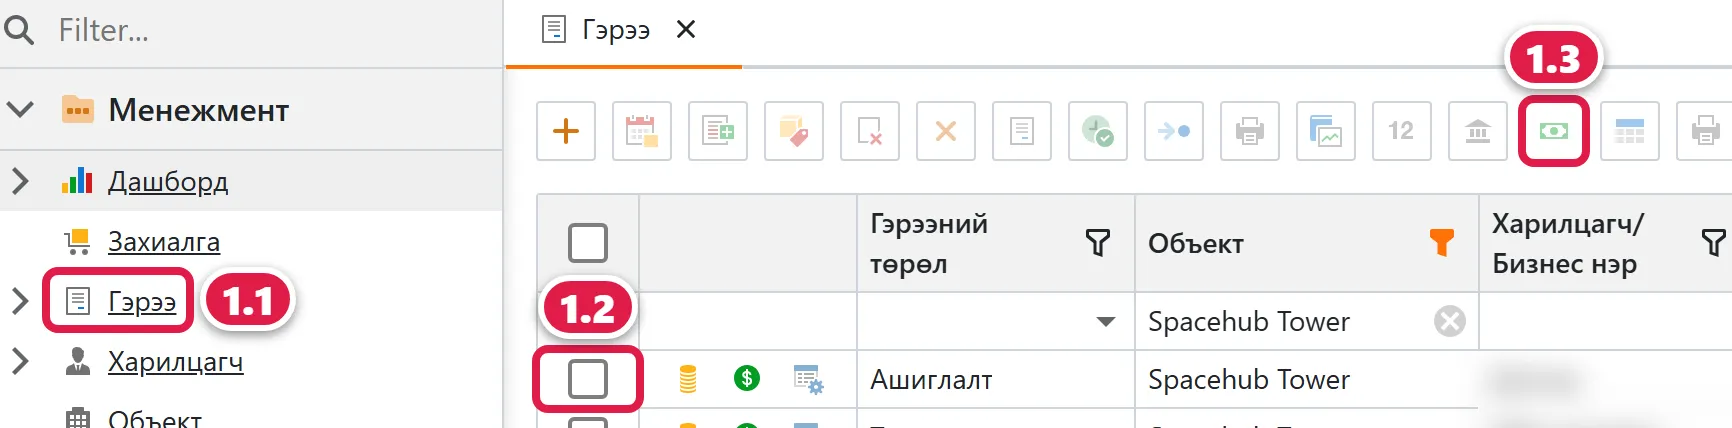
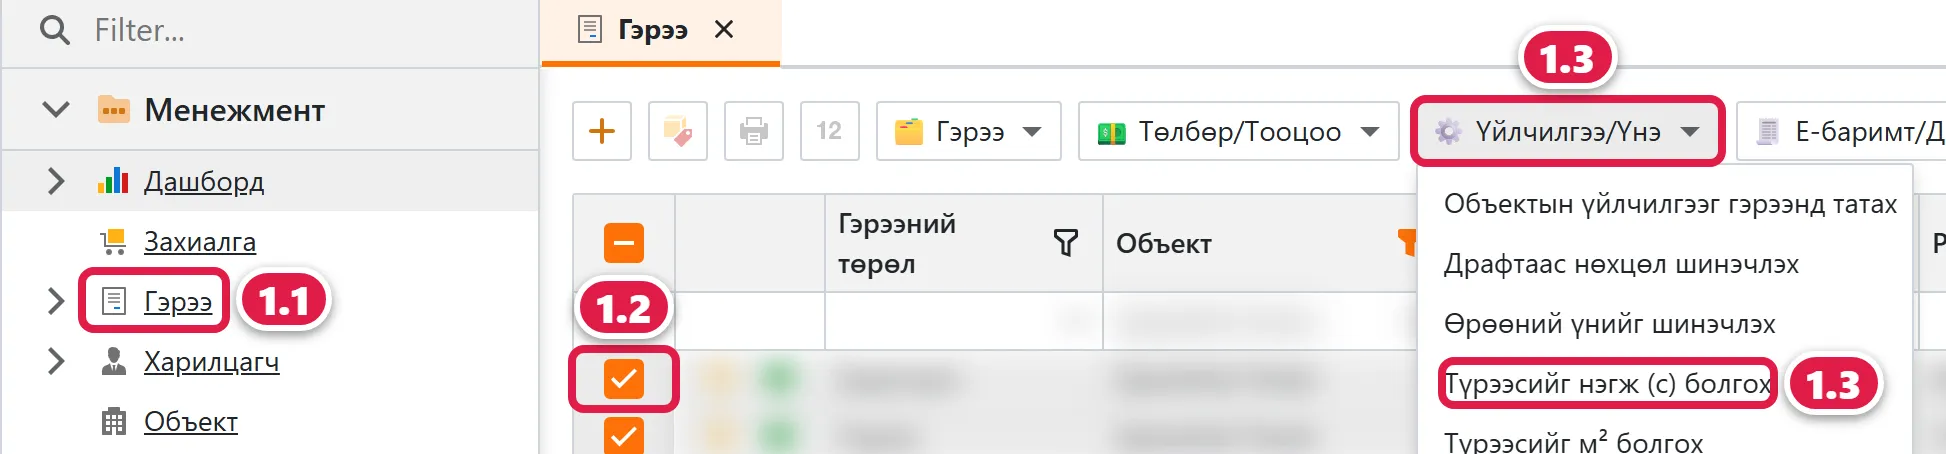
help: 10-31-ний товчны бүлэгтэй тулгав — «Сунгах» (🗂 Гэрээ), «Түрээсийг нэгж (с) болгох» (⚙ Үйлчилгээ/Үнэ) шинэ зурагтай; «Төлбөрийн төлөв шинэчлэх», «Төлөлтийг тооцоонд дахин хуваарилах» замыг 3 хуудсанд нэмэв

diff --git a/docs/owner/tureesiin-negj-m2.md b/docs/owner/tureesiin-negj-m2.md
@@ -3,8 +3,8 @@ sidebar_position: 4
 sidebar_label: Түрээсийг нэгжээр харуулах
 type: zaavar
 roles: [owner, menejer]
-updated: 2026-10-28
-verified_commit: 5fa824f
+updated: 2026-11-01
+verified_commit: 235fca3
 keywords:
   - "Нэхэмжлэх дээр м2 харагдахгүй болгох"
   - "Түрээсийг нийт дүнгээр нь харуулах"
@@ -28,21 +28,21 @@ keywords:
 
 ## Алхам
 
-![Гэрээ жагсаалт: Гэрээ цэс, сонгох нүд, «Түрээсийг нэгж (с) болгох» товч](/img/owner/tureesiin-negj-m2.webp)
+![Гэрээ жагсаалт: Гэрээ цэс, сонгох нүд, «⚙ Үйлчилгээ/Үнэ» цэсний «Түрээсийг нэгж (с) болгох»](/img/owner/tureesiin-negj-m2.webp)
 
 *Зураг 1. Менежмент → Гэрээ. Улаан дугаар = алхмын дугаар.*
 
 1. **Менежмент → Гэрээ** жагсаалтыг нээ.
 2. Хөрвүүлэх гэрээнүүдээ сонго. Нэг дор олон гэрээ сонгож болно.
-3. **«Түрээсийг нэгж (с) болгох»** товчийг дар. Энэ нь ногоон мөнгөн дэвсгэртийн дүрстэй товч. «Сонгосон гэрээнүүдийн түрээсийг нэгжээр (1 × нийт) харуулах уу?» гэж асуухад зөвшөөр.
+3. Жагсаалтын дээд мөрөөс **«⚙ Үйлчилгээ/Үнэ»** ▼ цэсийг нээгээд **«Түрээсийг нэгж (с) болгох»**-ыг дар. «Сонгосон гэрээнүүдийн түрээсийг нэгжээр (1 × нийт) харуулах уу?» гэж асуухад зөвшөөр.
 
 **Үр дүн:** «Хөрвүүлсэн: N, алгассан: M» гэсэн мэдэгдэл гарна. Алгассан гэрээ бүрийн шалтгаан хажууд нь бичигдэнэ. Шинээр үүсэх нэхэмжлэхэд түрээс «1 × нийт» хэлбэрээр гарна.
 
-Буцааж м² болгох бол **«Түрээсийг м² болгох»** товчийг дар. Нийт дүн хэвээр үлдэнэ, харин м²-ийн үнэ бутархай гарч болно.
+Буцааж м² болгох бол мөн **«⚙ Үйлчилгээ/Үнэ»** ▼ цэснээс **«Түрээсийг м² болгох»**-ыг дар. Нийт дүн хэвээр үлдэнэ, харин м²-ийн үнэ бутархай гарч болно.
 
 ## ⚠ Анхаар
 - Аль хэдийн гарсан нэхэмжлэх өөрчлөгдөхгүй.
-- Товчнууд зөвхөн дүрсээрээ харагдана. Хулганаа дээр нь аваачихад «Нэхэмжлэх дээр түрээс «1 × нийт үнэ» болж харагдана» гэсэн тайлбар гарна. Хажуугийн товч нь «Түрээсийг м² болгох».
+- Цэсний мөрүүд гэрээ сонгосны дараа л гарна. Хулганаа мөр дээр аваачихад «Нэхэмжлэх дээр түрээс «1 × нийт үнэ» болж харагдана» гэсэн тайлбар гарна.
 - Энэ товчийг админ, эсвэл байгууллагын эзэмшигч, захирал, менежерийн эрхтэй хүн ашиглана. Зөвхөн өөрийн байгууллагын гэрээг хөрвүүлнэ.
 
 ## Түгээмэл асуулт

diff --git a/docs/owner/tutorial/sar-buriin-ajil.md b/docs/owner/tutorial/sar-buriin-ajil.md
@@ -3,8 +3,8 @@ slug: /owner/tutorial/sar-buriin-ajil
 sidebar_label: Сар бүрийн ажил
 type: surgalt
 roles: [owner, nyagtlan]
-updated: 2026-10-29
-verified_commit: 84985f8
+updated: 2026-11-01
+verified_commit: 235fca3
 keywords:
   - "сар бүр"
   - "сарын ажил"
@@ -83,7 +83,7 @@ keywords:
 2. **Дансны хуулга** — **«Төлбөр бүртгээгүй»** шүүлтээр цагаан мөрүүдийг «ХУРДАН ТӨЛӨХ»-өөр бүртгэнэ. Ягаан (хэсэгчлэн хуваасан) мөрийн үлдэгдлийг «ХУРДАН ХУВААХ»-аар. → [Дансны хуулга](/owner/list/Statement_ListView)
    - Бэлэн мөнгийг **Тооцоо → Төлөлт → «Шинэ»**-ээр бүртгэнэ.
 3. **Төлөлт** — хуваарилагдаагүй үлдэгдэлтэй төлөлтийг «Хуваарилах...». → [Төлөлт](/owner/list/Sale_ListView)
-4. Төлөв буруу харагдвал гэрээн дээр **«Төлбөрийн төлөв шинэчлэх»**. → [Гэрээ](/owner/list/Contract_ListView)
+4. Төлөв буруу харагдвал гэрээгээ сонгоод **«💵 Төлбөр/Тооцоо»** ▼ → **«Төлбөрийн төлөв шинэчлэх»**. → [Гэрээ](/owner/list/Contract_ListView)
 
 ## ⑥ Сарын хаалт (дараа сарын 1–7)
 1. **Е-баримт:** **Тооцоо → Төлөлт → «Ebarimt гараагүй»** шүүлтээр шалгана. **Дараа сарын 7-ны** дотор гаргана. 8-наас хойш автоматаар гарахгүй. → [Е-баримт гарах нөхцөл](/owner/concepts/e-barimt-nohtsol)

diff --git a/docs/owner/list/bill.md b/docs/owner/list/bill.md
@@ -3,7 +3,7 @@ slug: /owner/list/Bill_ListView
 sidebar_label: Төлбөр
 type: lavlah
 roles: [owner, nyagtlan]
-updated: 2026-10-29
+updated: 2026-11-01
 verified_commit: 235fca3
 keywords:
   - "Төлбөр жагсаалт"
@@ -71,7 +71,7 @@ keywords:
 - **Юу хийдэг:** сонгосон төлбөрүүдийг цуцална. Төлбөрөөс үүссэн **нэхэмжлэх ба хөнгөлөлт мөн цуцлагдана**.
 - **Сонголт:** олон мөр. Зөвхөн цуцлаагүй (идэвхтэй) төлбөр дээр идэвхтэй, бусад үед **саарал**.
 - **Баталгаажуулалт:** «Төлбөр цуцлахад үүссэн нэхэмжлэх болон хөнгөлөлтүүд цуцлагдана. Та итгэлтэй байна уу?»
-- **Төлөлт холбогдсон бол:** төлөлт **устахгүй**. Зөвхөн энэ төлбөрт хуваарилсан холбоос арилж, төлөлт **хуваарилагдаагүй** үлдэнэ. Гэрээний «Хуваарилах» товчоор дахин хуваарил.
+- **Төлөлт холбогдсон бол:** төлөлт **устахгүй**. Зөвхөн энэ төлбөрт хуваарилсан холбоос арилж, төлөлт **хуваарилагдаагүй** үлдэнэ. **Гэрээ** жагсаалтын **«💵 Төлбөр/Тооцоо»** ▼ → **«Төлөлтийг тооцоонд дахин хуваарилах»**-аар дахин хуваарил.
 - **Анхаар:**
   - Устгах биш, **цуцал**. Түүх хадгалагдана.
   - Давхар үүссэн төлбөрийг ингэж арилгана.

diff --git a/docs/owner/geree-buunuur-sungah.md b/docs/owner/geree-buunuur-sungah.md
@@ -3,8 +3,8 @@ slug: /owner/geree-buunuur-sungah
 sidebar_label: Гэрээг бөөнөөр сунгах
 type: zaavar
 roles: [owner, menejer]
-updated: 2026-10-29
-verified_commit: 84985f8
+updated: 2026-11-01
+verified_commit: 235fca3
 keywords:
   - "гэрээ сунгах"
   - "олон гэрээ сунгах"
@@ -26,13 +26,13 @@ imgmap_skip: "1.9 хадгалсны дараа"
 
 ## Алхам
 
-![Гэрээ жагсаалт: цэс, мөр сонгох, Сунгах товч](/img/owner/geree-buunuur-sungah-1.webp)
+![Гэрээ жагсаалт: цэс, мөр сонгох, «🗂 Гэрээ» цэсний «Сунгах»](/img/owner/geree-buunuur-sungah-1.webp)
 
 *Зураг 1. Гэрээ жагсаалт. Улаан дугаар = алхмын дугаар. Дарвал томорно.*
 
 1. Зүүн цэснээс **Менежмент → Гэрээ**-г нээнэ.
 2. Сунгах гэрээнүүдийн мөрийн чагтыг тэмдэглэнэ. Хоёр ба түүнээс олон гэрээ сонгоно.
-3. Жагсаалтын дээд мөрөөс **«Сунгах»** товчийг дарна. Товч нь дүрстэй, хулганаа барихад «Сунгах» гэж гарна.
+3. Жагсаалтын дээд мөрөөс **«🗂 Гэрээ»** ▼ цэсийг нээгээд **«Сунгах»**-ыг дарна. Цэсний мөрүүд гэрээ сонгосны дараа л гарна.
 
 ![Сонгосон гэрээнүүдийг сунгах цонх: дуусах огноо, сунгах гэрээнүүд, Сунгахыг зөвшөөрөх, За](/img/owner/geree-buunuur-sungah-2.webp)
 

diff --git a/docs/owner/sar-tootsoo.md b/docs/owner/sar-tootsoo.md
@@ -1,7 +1,7 @@
 ---
 type: zaavar
 roles: [owner, nyagtlan, menejer]
-updated: 2026-10-27
+updated: 2026-11-01
 verified_commit: 235fca3
 sidebar_position: 6
 sidebar_label: Сарын тооцоо гаргах
@@ -32,7 +32,7 @@ keywords:
 4. Дээд талын тоонуудаас гэрээ, нэхэмжлэл, «Бүрэн төлсөн», «Дутуу төлсөн», «Төлөөгүй» тоог хар.
 5. **Шүүх**-ээс «Нэхэмжлэл үүсээгүй» гэж сонговол нэхэмжлэх дутуу гэрээнүүд гарна.
 
-Карт дээр **⚠** тэмдэг байвал төлөв хуучирсан гэсэн үг. **Менежмент → Гэрээ** жагсаалтаас тухайн гэрээг сонгоод **«Төлбөрийн төлөв шинэчлэх»** товчийг дар.
+Карт дээр **⚠** тэмдэг байвал төлөв хуучирсан гэсэн үг. **Менежмент → Гэрээ** жагсаалтаас тухайн гэрээг сонгоод **«💵 Төлбөр/Тооцоо»** ▼ → **«Төлбөрийн төлөв шинэчлэх»**-ийг дар.
 
 ## Гараар төлбөр үүсгэх
 
